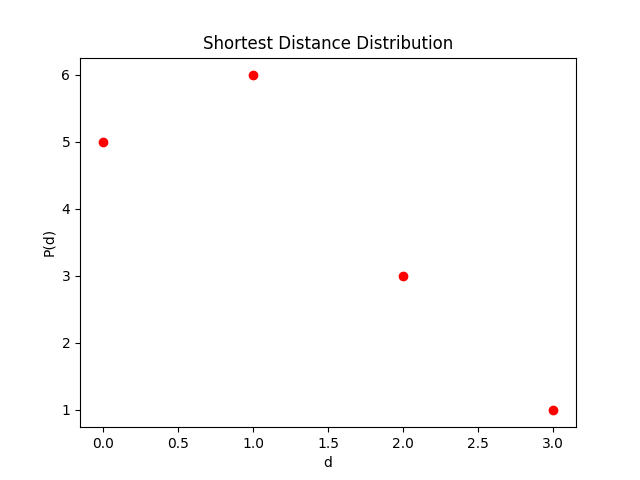
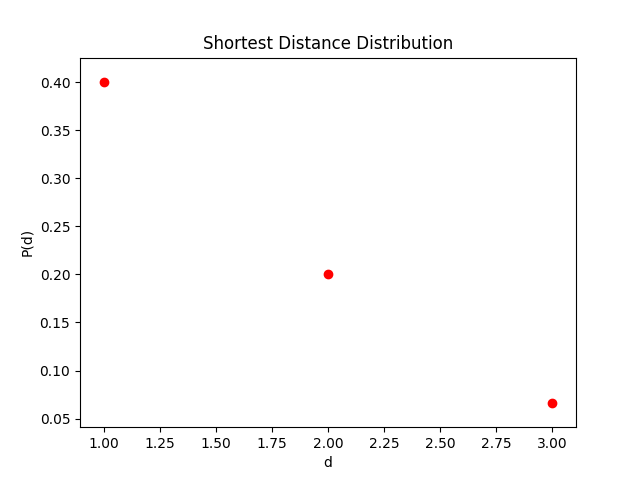
Update gui

diff --git a/gui/index.html b/gui/index.html
@@ -44,7 +44,7 @@
                         <md-card-content>
                             <div layout="row" layout-align="space-around none" layout-margin>
                                 <div flex="50">
-                                    <h2 class="md-title text-center">Real Network Properties (Observed)</h2>
+                                    <h2 class="md-title text-center">Real Network (Observed)</h2>
                                     <md-table-container>
                                         <table md-table>
                                             <thead md-head>
@@ -63,7 +63,7 @@
                                     </md-table-container>
                                 </div>
                                 <div flex="50" ng-if="scaleFreeProps">
-                                    <h2 class="md-title text-center">Scale-Free Network Properties (Theory)</h2>
+                                    <h2 class="md-title text-center">Scale-Free Network (Theory)</h2>
                                     <md-table-container>
                                         <table md-table>
                                             <thead md-head>
@@ -82,7 +82,7 @@
                                     </md-table-container>
                                 </div>
                                 <div flex="50" ng-if="randomProps">
-                                    <h2 class="md-title text-center">Random Network Properties (Theory)</h2>
+                                    <h2 class="md-title text-center">Random Network (Theory)</h2>
                                     <md-table-container>
                                         <table md-table>
                                             <thead md-head>
@@ -139,9 +139,9 @@
                                 <form name="graphUploadForm">
                                     <md-button id="csv" ngf-select="uploadFile($file)" ngf-max-size="2MB" class="md-block md-raised md-primary margin-left-zero full-width" style="color:white">Upload CSV</md-button>
                                     <div class="md-caption" layout="column">
-                                        Acceptable file format: edge list of source and target nodes separated by a tab.</br>
+                                        <b>File Format:</b> Edge list of source and target nodes separated by a tab.</br>
                                         </br>
-                                        Note: Larger node sizes have longer processing time.
+                                        <b>Note:</b> Larger node sizes have longer processing time.
                                     </div>
                                 </form>
                             </div>
@@ -151,13 +151,13 @@
                                     <md-input-container class="md-block">
                                         <label>Number of Nodes (N)</label>
                                         <input name="n" ng-model="graphOptions.n" type="number" required>
-                                        <div class="md-caption">Note: larger node sizes have longer processing time.</div>
+                                        <div class="md-caption"><b>Note:</b> larger node sizes have longer processing time.</div>
                                         <div ng-messages="graphOptionForm.numberOfNodes.$error" role="alert" md-auto-hide="true">
                                             <div ng-message="required" class="form-message">You must supply the number of nodes.</div>
                                         </div>
                                     </md-input-container>
                                     <md-input-container class="md-block">
-                                        <label>Proability Distribution (p)</label>
+                                        <label>Probability (p)</label>
                                         <input name="p" min=0 max=1 type="number" step="any" ng-model="graphOptions.p" required>
                                         <div ng-messages="graphOptionForm.probability.$error" role="alert" md-auto-hide="true">
                                             <div ng-message="required" class="form-message">You must supply the probability.</div>

diff --git a/gui/scripts/factories/GraphDataFactory.js b/gui/scripts/factories/GraphDataFactory.js
@@ -1,4 +1,4 @@
-function GraphDataFactory($rootScope, $http, Upload, URL, EVENTS) {
+function GraphDataFactory($rootScope, $window, $http, Upload, URL, EVENTS) {
     var factory = {};
 
     let graphData = {
@@ -21,27 +21,27 @@ function GraphDataFactory($rootScope, $http, Upload, URL, EVENTS) {
 
     factory.getGraphData = function() {
         return graphData;
-    }
+    };
 
     factory.getGraphGuiFormat = function() {
         return graphData.guiNetworkFormat;
-    }
+    };
 
     factory.getRealNetworkProperties = function() {
         return graphData.analyzedNetworkProperties;
-    }
+    };
 
     factory.getScaleFreeNetworkProperties = function() {
         return graphData.theoreticalScaleFreeNetworkProperties;
-    }
+    };
 
     factory.getRandomNetworkProperties = function() {
         return graphData.theoreticalRandomNetworkProperties;
-    }
+    };
 
     factory.haveImage = function() {
         return !graphData.isTooBig;
-    }
+    };
 
     factory.computeGraphProperties = function(file) {
         _startProcessing();
@@ -57,7 +57,7 @@ function GraphDataFactory($rootScope, $http, Upload, URL, EVENTS) {
             }
             _stopProcessing();
         });
-    }
+    };
 
     factory.getExampleGraphData = function() {
         _startProcessing();
@@ -72,7 +72,7 @@ function GraphDataFactory($rootScope, $http, Upload, URL, EVENTS) {
             }
             _stopProcessing();
         });
-    }
+    };
 
     factory.getImageData = function(fileName) {
         return $http({
@@ -85,7 +85,7 @@ function GraphDataFactory($rootScope, $http, Upload, URL, EVENTS) {
                 console.error(response.status + ': ' + response.data);
             }
         });
-    }
+    };
 
     factory.getRandomGraphData = function(jsonData) {
         _startProcessing();
@@ -102,9 +102,9 @@ function GraphDataFactory($rootScope, $http, Upload, URL, EVENTS) {
             }
             _stopProcessing();
         });
-    }
+    };
 
     return factory;
 }
 
-export default ['$rootScope', '$http', 'Upload', 'URL', 'EVENTS', GraphDataFactory];
+export default ['$rootScope', '$window', '$http', 'Upload', 'URL', 'EVENTS', GraphDataFactory];

diff --git a/gui/scripts/app.js b/gui/scripts/app.js
@@ -28,7 +28,7 @@ export default angular.module('graph-gui', ['ngMaterial', 'ngFileUpload', 'ngMes
         return function(str) {
             let new_str = str.split("_").join(" ");
             return new_str.charAt(0).toUpperCase() + new_str.slice(1);
-        }
+        };
     })
     .filter('propValFilter', function($filter) {
         return function(str, precision) {
@@ -36,7 +36,7 @@ export default angular.module('graph-gui', ['ngMaterial', 'ngFileUpload', 'ngMes
                 return $filter('number')(str, precision);
             }
             return str;
-        }
+        };
     })
     .constant('URL', URL)
     .constant('EVENTS', EVENTS);

diff --git a/gui/scripts/controllers/ContentController.js b/gui/scripts/controllers/ContentController.js
@@ -8,7 +8,7 @@
 
      $scope.setPromise = function(promise) {
          $scope.myPromise = promise;
-     }
+     };
 
      $scope.$on(EVENTS.NEW_GRAPH_DATA, function() {
          $scope.isInitial = false;
@@ -20,12 +20,14 @@
          let circularProgressTop = 35;
          let loadingMessageTop = 50;
          let h = $window.innerHeight;
+
          $scope.circularTopPos = {
              top: Math.round(h * circularProgressTop / 100.0) + 'px'
-         }
+         };
+
          $scope.loadingMessageTopPos = {
              top: Math.round(h * loadingMessageTop / 100.0) + 'px'
-         }
+         };
      }
  }
 

diff --git a/gui/scripts/controllers/GraphGeneratorController.js b/gui/scripts/controllers/GraphGeneratorController.js
@@ -5,7 +5,7 @@ function GraphGeneratorController($scope, $window, GraphDataFactory) {
 
         $scope.navRight = {
             width: Math.round(w * percent / 100.0) + "px"
-        }
+        };
     }
 
     $scope.graphComputationResult = {};
@@ -22,7 +22,7 @@ function GraphGeneratorController($scope, $window, GraphDataFactory) {
 
     $scope.submitJson = function() {
         $scope.setPromise(GraphDataFactory.getRandomGraphData($scope.graphOptions));
-    }
+    };
 }
 
 export default ['$scope', '$window', 'GraphDataFactory', GraphGeneratorController];

diff --git a/gui/scripts/controllers/GraphPropertyController.js b/gui/scripts/controllers/GraphPropertyController.js
@@ -22,7 +22,7 @@ function GraphPropertyController($scope, GraphDataFactory, URL, EVENTS) {
             return false;
         }
         return propVal === 0 || typeof propVal == 'number' || typeof propVal == 'string';
-    }
+    };
 }
 
 export default ['$scope', 'GraphDataFactory', 'URL', 'EVENTS', GraphPropertyController];

diff --git a/gui/scripts/controllers/GraphVisualizationController.js b/gui/scripts/controllers/GraphVisualizationController.js
@@ -8,7 +8,7 @@ function GraphVisualizationController($scope, $window, $timeout, GraphDataFactor
 
         $scope.fullHeight = {
             height: h + "px"
-        }
+        };
     }
 
     $scope.$on(EVENTS.NEW_GRAPH_DATA, function() {

diff --git a/http_handlers/graph_handler.py b/http_handlers/graph_handler.py
@@ -45,7 +45,9 @@ def handle_random_network():
 
 @blueprint.route('/api/img/<filename>', methods=['GET'])
 def get_image(filename):
-    return send_from_directory(CONFIG.DB_PLOT_DIR_PATH, filename)
+    img = send_from_directory(CONFIG.DB_PLOT_DIR_PATH, filename)
+    os.remove(os.path.join(CONFIG.DB_PLOT_DIR_PATH, filename))
+    return img
 
 
 def _analyze_real_network_properties(network_name):
@@ -76,7 +78,7 @@ def _analyze_random_network_properties(n, p):
     is_too_big = _is_network_too_big(network.num_vertices(), network.num_edges())
 
     analyzed_network_properties = _compute_real_network_properties(network_name, network)
-    theoretical_random_network_properties = _compute_random_network_properties(network.num_vertices(), p)
+    theoretical_random_network_properties = _compute_random_network_properties(network_name, network.num_vertices(), p)
 
     gui_network_format = network_format_converter.convert_gt_network_to_gui_format(
         network,
@@ -111,7 +113,11 @@ def _compute_real_network_properties(network_name, network):
     average_clustering_coefficient = clustering_coefficient_analyzer.calculate_average_clustering_coefficient(network)
 
     distance_distribution = distance_analyzer.get_distance_distribution(network)
-    distance_prob_distribution_plot_file_name = distance_analyzer.plot_and_store_distance_prob_distribution(network_name, distance_distribution)
+    distance_prob_distribution = distance_analyzer.calculate_distance_prob_distribution(distance_distribution)
+    distance_prob_distribution_plot_file_name = distance_analyzer.plot_and_store_distance_prob_distribution(
+        network_name,
+        distance_prob_distribution
+    )
     average_distance = distance_analyzer.calculate_average_distance(no_of_nodes, distance_distribution)
     diameter = distance_analyzer.find_network_diameter(distance_distribution)
 
@@ -165,10 +171,10 @@ def _load_graph_csv_from_file_system(graph_name):
     return network
 
 
-def _compute_random_network_properties(n, p):
+def _compute_random_network_properties(network_name, n, p):
     expected_no_of_edges = random_network_analyzer.calculate_no_of_edges(n, p)
     expected_average_degree = random_network_analyzer.calculate_average_degree(n, p)
-    expected_degree_distribution = random_network_analyzer.calculate_degree_prob_distribution(n, p)
+    expected_degree_distribution_plot_file_name = random_network_analyzer.calculate_degree_prob_distribution(network_name, n, p)
     expected_regime_type = random_network_analyzer.get_regime_type(n, p)
 
     expected_average_distance = random_network_analyzer.calculate_average_distance(n, p)
@@ -178,7 +184,7 @@ def _compute_random_network_properties(n, p):
         'p': p,
         'expected_no_of_nodes': n,
         'expected_no_of_edges': expected_no_of_edges,
-        'expected_degree_distribution': expected_degree_distribution,
+        'expected_degree_distribution_plot_file_name': expected_degree_distribution_plot_file_name,
         'expected_average_degree': expected_average_degree,
         'expected_regime_type': expected_regime_type,
         'expected_average_distance': expected_average_distance,

diff --git a/graph/analyzer/random_network_analyzer.py b/graph/analyzer/random_network_analyzer.py
@@ -1,5 +1,9 @@
+import os
 import math
-from scipy.misc import factorial, comb
+import numpy as np
+import matplotlib.pyplot as plt
+from graph.util import plot_util
+import config as CONFIG
 
 
 def calculate_no_of_edges(n, p):
@@ -19,22 +23,33 @@ def calculate_clustering_coefficient(p=0.05):
     return p
 
 
-def calculate_degree_prob_distribution(n, p=0.05):
+def calculate_degree_prob_distribution(network_name, n, p=0.05):
     avg_degree = calculate_average_degree(n, p)
+    size = 10000
+    if n >= 1000:
+        vals = np.random.poisson(avg_degree, size)
+    else:
+        vals = np.random.binomial(n, p, size)
 
-    def _calculate_poisson_prob(k):
-        return {
-            k: math.pow(math.e, -avg_degree) * (math.pow(avg_degree, k) / factorial(k))
-        }
+    file_name = network_name + '_theoretical_degree_distribution_log_binning.png'
+    file_path = os.path.join(CONFIG.DB_PLOT_DIR_PATH, file_name)
 
-    def _calculate_binomial_prob(k):
-        return {
-            k: comb(n - 1, k) * math.pow(p, k) * math.pow(1 - p, n - 1 - k)
-        }
+    x = np.sort(vals)
+    log_bins = np.logspace(math.log10(min(x)), math.log10(max(x)), 50)
+    y, bins, _ = plt.hist(x, bins=log_bins, log=True, normed=True)
+    bin_centers = list((bins[1:] + bins[:-1]) / 2)
+    y = list(y)
 
-    k_values = [k for k in range(2 * int(avg_degree))]
-    prob_func = _calculate_poisson_prob if n >= 1000 else _calculate_binomial_prob
-    return map(prob_func, k_values)
+    x_log, y_log = plot_util.get_log_log_points(bin_centers, y)
+    plt.clf()
+    plt.scatter(x_log, y_log, s=2, c='r')
+    plt.title('Log-Log Theoretical Degree Distribution with Log Binning')
+    plt.xlabel('k')
+    plt.ylabel('P(k)')
+    plt.savefig(file_path)
+    plt.close()
+
+    return file_name
 
 
 def get_regime_type(n, p=0.05):

diff --git a/graph/analyzer/distance_analyzer.py b/graph/analyzer/distance_analyzer.py
@@ -107,6 +107,9 @@ def calculate_distance_prob_distribution(distance_distribution):
 
     total = sum(distance_distribution.values())
     for k, v in distance_distribution.items():
+        if k > total or k == 0:
+            continue
+
         result[k] = float(distance_distribution[k]) / float(total)
 
     return result
@@ -115,6 +118,7 @@ def calculate_distance_prob_distribution(distance_distribution):
 def plot_and_store_distance_prob_distribution(network_name, distance_prob_distribution):
     file_name = network_name + '_distance_distribution.png'
     file_path = os.path.join(CONFIG.DB_PLOT_DIR_PATH, file_name)
+    print distance_prob_distribution
 
     x = []
     y = []
@@ -123,6 +127,7 @@ def plot_and_store_distance_prob_distribution(network_name, distance_prob_distri
         x.append(k)
         y.append(v)
 
+    plt.clf()
     plt.scatter(x, y, c='r')
     plt.title('Shortest Distance Distribution')
     plt.xlabel('d')

diff --git a/graph/util/network_format_converter.py b/graph/util/network_format_converter.py
@@ -5,6 +5,7 @@ import config as CONFIG
 
 
 def _scale_node_degree(k, kmax, kmin):
+    temp = 1.00
     if (kmax - kmin > 0):
         temp = int(((k - kmin) / float((kmax - kmin)) + 1) * 2)
 

diff --git a/server.py b/server.py
@@ -19,4 +19,4 @@ def cors_headers(response):
 
 if __name__ == '__main__':
     setup_blueprints(app)
-    app.run(debug=True, port=3000)
+    app.run(debug=True, port=3000, threaded=True)
